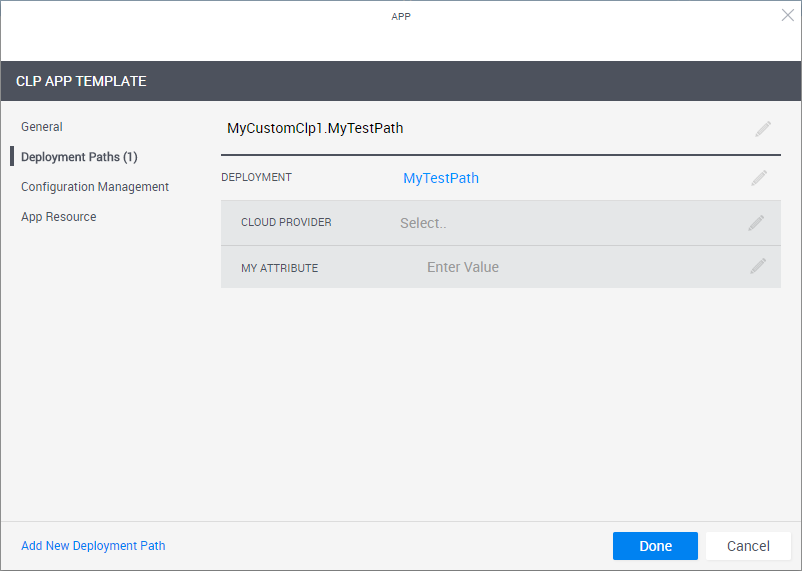
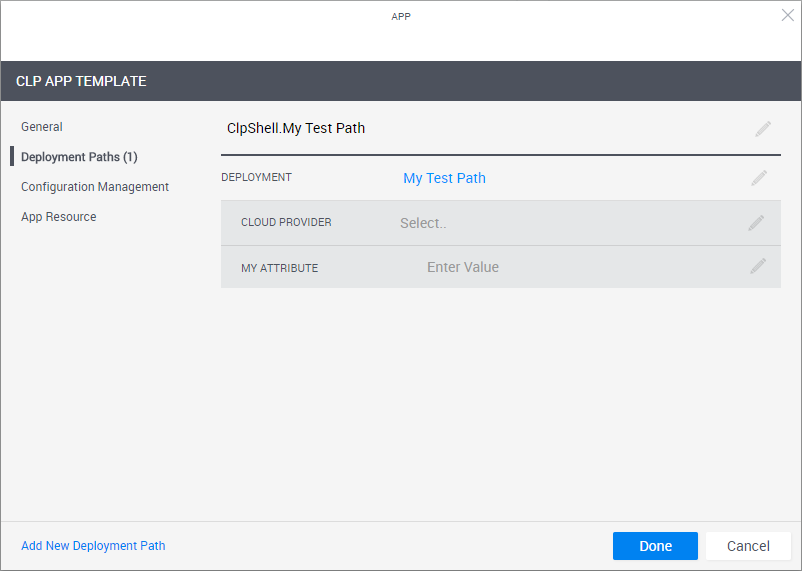
CLP chapter: added/updated screenshots, code examples + some phrasing changes

Changed region(s): [[0.2805, 0.2084, 0.4988, 0.2382], [0.5299, 0.2977, 0.6234, 0.3275], [0.9975, 0.0, 1.0, 0.0298]]

diff --git a/_cloudproviders/9.0.0/extending-cloud-provider-shell-data-model.md b/_cloudproviders/9.0.0/extending-cloud-provider-shell-data-model.md
@@ -34,15 +34,20 @@ The second option of associating custom attributes with an already installed she
 
 Adding attributes to the shell is done in the shell's *shell-definition.yaml* file. 
 
-Let's start by adding the **Networking Type** attribute from the standard. Attributes that are included on the shell's standard, like this attribute, need to be added to the `capabilities` section:
+Let's start by adding the **Networking Type** attribute from the standard. Attributes that are included on the shell's standard, like this attribute, need to be added to the `capabilities` section, under `properties`:
 
 {% highlight yaml %}
-capabilities:
-auto_discovery_capability:
-type: cloudshell.capabilities.AutoDiscovery
-properties:
-  VLAN Type:
-    type: string       # supported types are: string, integer, float, boolean, cloudshell.datatypes.Password
+node_types:
+ vendor.resource.ClpShell:
+    derived_from: cloudshell.nodes.CustomCloudProvider
+    capabilities:
+      concurrent_execution:
+        type: cloudshell.capabilities.SupportConcurrentCommands
+      auto_discovery_capability:
+        type: cloudshell.capabilities.AutoDiscovery
+        properties:
+          VLAN Type:
+            type: string       # supported types are: string, integer, float, boolean, cloudshell.datatypes.Password
 {% endhighlight %}
 
 Let's see how it looks on CloudShell. Install the shell:
@@ -52,7 +57,7 @@ shellfoundry install
 {% endhighlight %}
 
 Open CloudShell Portal, in the **Inventory** dashboard, create a resource from the shell.
-The attribute is displayed:
+The attribute is displayed in the resource's **Validation & Discovery** page:
 
 ![Resource information]({{site.baseurl}}/assets/cp-discovery-attribute.png){:class="img-responsive"}
 
@@ -67,19 +72,22 @@ properties:
     tags: [setting, configuration]      # supported tags are: configuration, setting, search_filter, abstract_filter, include_in_insight, readonly_to_users, display_in_diagram, connection_attribute, read_only
 {% endhighlight %}
 
-However, if the attribute is not included in the shell's family, you will need to set it both in the `properties:` section, and in the `capabilities:` section’s properties. We’ll add an attribute called “my discovery attribute”.
+However, if the attribute is not included in the shell's family, you will need to set it both in the `properties:` section, and in the `capabilities:` section’s `properties`. We’ll add an attribute called “my discovery attribute”.
 
-First we'll add it to the capabilities section:
+First we'll add it to the `capabilities` section:
 
 {% highlight yaml %}
-capabilities:
-  concurrent_execution:
-    type: cloudshell.capabilities.SupportConcurrentCommands
-  auto_discovery_capability:
-    type: cloudshell.capabilities.AutoDiscovery
-    properties:
-      my discovery attribute:
-        type: string
+node_types:
+ vendor.resource.ClpShell:
+    derived_from: cloudshell.nodes.CustomCloudProvider
+      capabilities:
+        concurrent_execution:
+          type: cloudshell.capabilities.SupportConcurrentCommands
+        auto_discovery_capability:
+          type: cloudshell.capabilities.AutoDiscovery
+          properties:
+            my discovery attribute:
+              type: string
 {% endhighlight %}
 
 And then we'll add it to the `properties:` section as well (note that this section is missing, so you'll need to add it directly under the `derived_from:` line:
@@ -93,7 +101,15 @@ node_types:
       	type: string
 {% endhighlight %}
 
-You can also set additional settings. Since this attribute is not included on the family, you can also set possible values (`constraints` property).
+Return to CloudShell Portal, in the **Inventory** dashboard, click the resource's more actions button and select **Discover**:
+
+![Resource information]({{site.baseurl}}/assets/cp-open-resource-discovery-page.png){:class="img-responsive"}
+
+The resource's **Validation & Discovery** page is displayed, showing the new discovery attribute we created.
+
+![Resource information]({{site.baseurl}}/assets/cp-discovery-attribute-2.png){:class="img-responsive"}
+
+You can also set additional settings. Since this attribute is not included in the family, you can also set possible values (`constraints` property).
 
 For example:
 

diff --git a/_cloudproviders/9.0.0/configuring-deployment-paths.md b/_cloudproviders/9.0.0/configuring-deployment-paths.md
@@ -24,7 +24,11 @@ Let's start by configuring a new deployment path. In the **Deployments** folder,
 vendor.resource.MyDeploymentPath:
 {% endhighlight %}
 
-Replace "MyDeploymentPath" with the new display name of the new deployment path. For example: "MyTestPath".
+Replace "MyDeploymentPath" with the new display name of the new deployment path (spaces are supported). For example: "My Test Path".
+
+{% highlight yaml %}
+vendor.resource.My Test Path:
+{% endhighlight %}
 
 Install the shell on CloudShell and in the **Manage>Apps** page, create an App template. You should be able to see the new deployment option in the **Select Deployment Type** area:
 
@@ -53,12 +57,14 @@ _CloudShell does not allow upgrading shells with deleted/modified attributes. Th
 Place the cursor at the end of the `derived_from:` line and press the **[Enter]** key. Type "properties:" and press **[Enter]** again. Press the **[Tab]** key and add the attribute. _**To make the attribute visible to the user in CloudShell, make sure to include the "tags: [user_input]" line.**_ For example, adding a string attribute called "My attribute":
 
 {% highlight yaml %}
-vendor.resource.MyTestPath:
-derived_from: cloudshell.nodes.CustomDeploymentOption
-properties:
-  My attribute:
-    type: string       # supported types are: string, integer, float, boolean, cloudshell.datatypes.Password
-    tags: [user_input]
+node_types:
+
+  vendor.resource.My Test Path:
+    derived_from: cloudshell.nodes.CustomDeploymentOption
+    properties:
+      My attribute:
+        type: string
+        tags: [user_input]       # supported types are: string, integer, float, boolean, cloudshell.datatypes.Password
 {% endhighlight %}
 
 The deployment path should look something like this:
@@ -71,7 +77,7 @@ Same as with attributes in the *shell-definition.yaml*, you can also specify add
 My attribute:
   type: string
   default: value 1
-  description: "This is my Networking type attribute."
+  description: "This is my my attribute."
   constraints: value 1, value 2, value 3
   tags: [user_input]
 {% endhighlight %}
@@ -84,7 +90,7 @@ In some cases, you may want a specific deployment attribute to be unavailable fo
 My attribute:
   type: string
   default: value 1
-  description: "This is my Networking type attribute."
+  description: "This is my attribute."
   constraints: value 1, value 2, value 3
   tags: [user_input, editable_only_in_app_template]
 {% endhighlight %}

diff --git a/_cloudproviders/9.0.0/removing-the-address-field.md b/_cloudproviders/9.0.0/removing-the-address-field.md
@@ -7,10 +7,35 @@ version:
     - 9.0.0
 ---
 
-For some cloud providers, like AWS EC2 and Azure, the **Address** field is irrelevant. If this is the case, you can easily remove the field from the shell by setting the **hide_address** property in the shell-definition.yaml. In the *auto_discovery_capability* section, under `properties`, make sure the property is uncommnented and set it to *true*:
+For some cloud providers, like AWS EC2 and Azure, the **Address** field is irrelevant. If this is the case, you can easily remove the field from the shell by setting the **hide_address** property in the shell-definition.yaml. In the `capabilities` section, under `properties`, uncomment the property and set it to *true*:
 
 {% highlight yaml %}
-hide_address:
-  type: string
-  default: true
+node_types:
+ vendor.resource.ClpShell:
+    derived_from: cloudshell.nodes.CustomCloudProvider
+    properties:
+      my discovery attribute:
+        type: string
+    capabilities:
+      concurrent_execution:
+        type: cloudshell.capabilities.SupportConcurrentCommands
+      auto_discovery_capability:
+        type: cloudshell.capabilities.AutoDiscovery
+        properties:
+          my discovery attribute:
+            type: string
+          VLAN Type:
+            type: string
+          enable_auto_discovery:
+            type: boolean
+            default: true
+          auto_discovery_description:
+            type: string
+            default: Describe the auto discovery
+          inventory_description:
+            type: string
+            default: Describe the resource shell template
+#          hide_address:
+#            type:string
+#            default: false
 {% endhighlight %}

diff --git a/_cloudproviders/9.0.0/creating-cloud-provider-shell.md b/_cloudproviders/9.0.0/creating-cloud-provider-shell.md
@@ -22,10 +22,10 @@ Since the Cloud Provider shell only works with CloudShell 9.0 and above, make su
 shellfoundry config host 192.168.85.13
 {% endhighlight %}
 
-Navigate to the folder that will contain the Cloud Provider shell and create the shell. For example, creating a shell called MyCloudProviderShell:
+Navigate to the folder that will contain the Cloud Provider shell and create the shell. For example, creating a shell called CLPShell:
 
 {% highlight bash %}
-shellfoundry new my-cloud-provider-shell --template gen2/cloud-provider
+shellfoundry new clp-shell --template gen2/cloud-provider
 {% endhighlight %}
 
 The shell is created in the folder.
